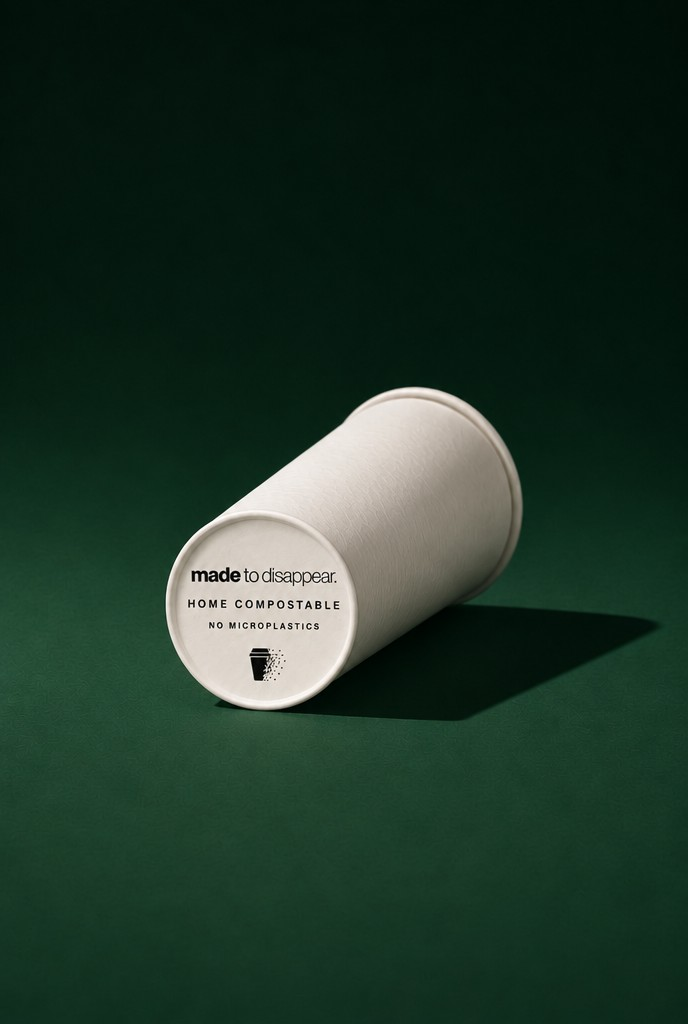
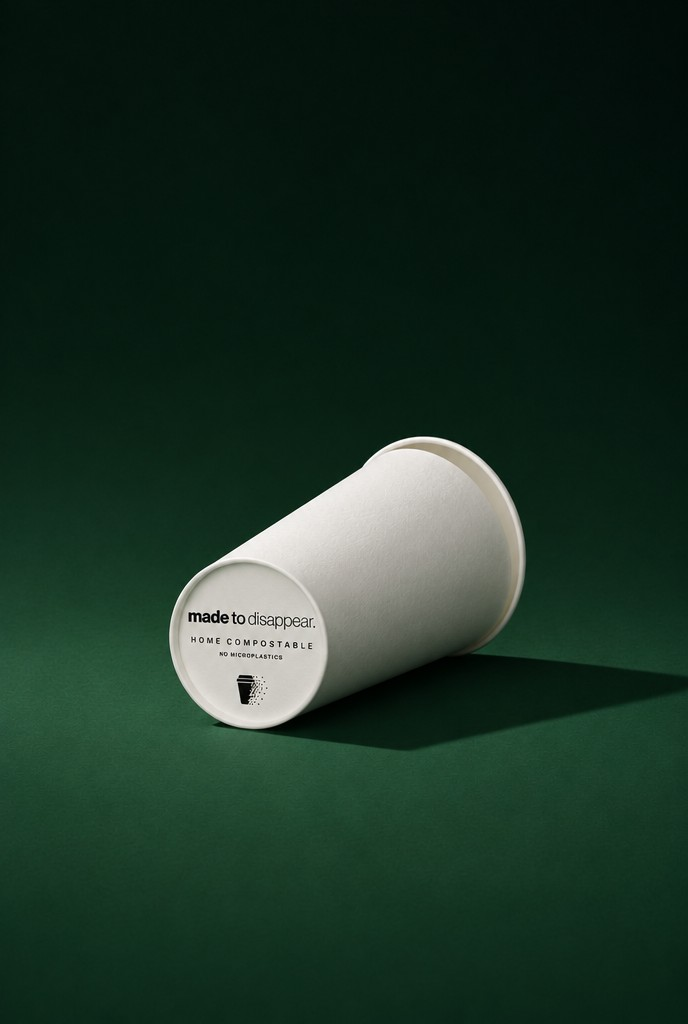
Lying-down cups reshot side-on so the taper reads
The base-forward and three-quarter views still read as a tube, so the three
cup alts are now tipped over in a side view with the wider rim behind and the
marked base turned to camera (masters 129–131). ASSET_VERSION 18.

Changed region(s): [[0.2442, 0.375, 1.0, 0.75]]

diff --git a/src/lib/asset-version.ts b/src/lib/asset-version.ts
@@ -3,7 +3,7 @@
  * are replaced: the URLs change, so no browser or CDN keeps serving the old
  * files. next.config.ts allows exactly this query on local images.
  */
-export const ASSET_VERSION = "17";
+export const ASSET_VERSION = "18";
 
 export function v(publicPath: string): string {
   return `${publicPath}?v=${ASSET_VERSION}`;

diff --git a/CLAUDE.md b/CLAUDE.md
@@ -1,6 +1,6 @@
 # Made to Disappear site
 
-- Brand card (branch brand-card, 2026-11-12/13): docs/brand/brand-card-2026-11-12.md records the design card the user supplied in chat (the PDF was not saved) and asked to be applied to the whole site; it supersedes the colour and type guidance in docs/brand-card.md (routes, data model and claims rules there still apply). Palette: bone #EDE8DF page ground, paper #F6F2EB cards/inputs/image wells, ink #111111 text and primary buttons, soil #2A2420 the one dark band per page (the footer), stone #6B675F secondary text, ash #8B877F disabled/coming-soon/borders only, raw bamboo #C4A672 only as a left rule on notes (`.note`). The old token names in globals.css (`--color-forest`, `--color-cream`, `--color-mint`, `--color-sage`, `--color-clay`…) are kept so every utility still works, each remapped to a card colour; a "Brand card layer" at the end of globals.css overrides components: square corners everywhere except `.btn`/`.chip` (a `[class*="rounded-["]` override), no shadows/gradients/glass/mesh/grain, `.card` paper with a hairline and colour-only hover, outlined chips in lowercase, ink primary button + outlined others (one primary per screen; the header button is outlined), `.btn` and nav lowercase via text-transform, headings always ink, `.price-table`/`.spec-table` hairline rows with an ink rule under the header row, `.max-w-7xl` capped at 1120 px with 28 px gutters, Reveal fades only (200 ms), Marquee static. Type: Helvetica Neue / Arial system stack via `--font-display/--font-serif/--font-sans` (no Google fonts; JetBrains Mono stays for SKUs); .t-hero 72/1/700/-0.04em, .t-section 40, .t-page/.t-heading 26, .t-card 19, .t-lead 20/500, .t-label 11.5 caps stone. Headings are lowercase with a period in the copy itself (acronyms stay); PageHeader titles and most h2s were lowercased on 2026-11-13. Home page: hero (product on bone, headline "serve it. then let it go.", one primary + a text link, a hairline fact list), then numbered sections 01 the range (hairline product grid), 02 paper outside. PHA inside. (soil photo + hairline spec list), 03 after the coffee. (breakdown strip + three hairline columns), 04 what it costs. (CostCalculator, hairline receipt), 05 the Inner Harbour (desaturated photo + hairline stats), 06 asked often.; the footer is the only soil band and carries "keep it. then let it go." Photography (2026-11-13, GPT Image 2.6 via Higgsfield from the renders and the badge, masters in docs/brand/generated/60–65): public/hero-bone.jpg (16:9), `[sku]-front.jpg` the 4:5 pair with the base mark, `[sku]-3q.jpg` single standing cups cropped from one three-cup frame, lid front/3q; all on bone #EDE8DF with one hard light and a real shadow. ProductImage frames are 4:5 object-cover. public/icon.png and apple-icon.png are the card's favicon: an ink dot on bone, low and right.  Interaction layer (2026-11-13, after the user said the photos were off-centre and the site had no features): the product photography was regenerated on 2026-11-13 with the subject dead centre and a short soft shadow (GPT Image 2.6, masters docs/brand/generated/80–87: hero lineup, three front pairs, lid pair, three standing cups; visual mass measured within 5% of centre with the scratchpad measure.py), the 16 oz pair and standing shot were regenerated at real proportions (13.5 cm tall on a 90 mm rim, masters 92–93) after the first read as a giant tumbler (user, 2026-11-13); the lid photos are lid-only (a single lid front, a stack of three for the hover shot, two lids for card-lids.jpg; masters 89–91) because a cup wearing the lid read as another cup SKU (user, 2026-11-13), then the product tiles and gallery cut tight so the cups fill the 4:5 frame and bleed top and bottom (user, 2026-11-13: "like this… not in the middle", shown on the range tiles only); the hero keeps the full centred lineup with its margins; re-cropping the first set never looked right because the long hard shadows ran to one edge. Every photo URL carries ?v=ASSET_VERSION from src/lib/asset-version.ts (next.config.ts images.localPatterns allows exactly that query): bump the constant whenever a photo file is replaced, or browsers keep the old file for hours. soil-mark.jpg is a Higgsfield outpaint of the original (master 72), and public/breakdown/1–4.jpg are 4:5 cuts of the 4k-upscaled strip (master 73). The header is transparent until the page scrolls (ScrollState sets data-scrolled; the brand layer then paints it bone with a hairline). Home page (rebuilt 2026-11-14 to sit "just like nothing.eco", after the user asked; this supersedes the 2026-11-13 layout below): a full-bleed photograph hero (public/hero-green.jpg, master docs/brand/generated/128, a barista holding a lidded cup on a dark green stone counter with the left two thirds dark; master 123 was the first take, which the user liked but whose hand had two fingers one side and three the other; 127 put the thumb across the front, which the user rejected because a barista behind the counter holds the cup the other way round, so 128 was regenerated with 123 as the composition reference and the grip spelled out: back of the hand to the camera, four fingers across the front of the cup, thumb hidden behind it) with the headline bottom-left in bone, one bone-filled `.btn-bone` button and the from-price; phones stack the 4:5 photo over a dark green panel so the headline never crosses the cup; then "as heard on" as a label on a hairline with the CBC credit; two square photo category cards (shared-trio, shared-lid-on) with title, line and outlined bone `.chip-shot` chips at the top and a bone button bottom-left; a full-width soil band (breakdown/4.jpg under a flat `.photo-shade`) with the lining statement centred; "the range." as four ProductCards; "what happens after." with the scrubber; "we asked 167 people first." with the three percentages in hairline columns; the calculator; the FAQ. `.on-photo` sets headings to bone (the brand layer otherwise forces headings ink). The cup alts were reshot the same day with the current badge after the user pointed out the first green set carried the old arc-text mark, then reshot again at a three-quarter angle (the straight-on base view "looks like a cylinder", user) with the badge printed without its circle: the black circle in docs/brand/badge-cup-base.png was only a placeholder for the cup base, so docs/brand/badge-cup-base-nocircle.png is the reference to use (masters 124–126). The soil-mark and breakdown frames (public/soil-mark.jpg, public/breakdown/1–4.jpg) still show the mark with the circle and have not been reshot. Card rules the user set on 2026-11-14, overriding the brand card for the catalogue cards only: white type on the photo cards, 10 px corners on `.shot-card`/`.featured-tile`, the order button `.btn-order` in raw bamboo with a 3 px solid base shadow (the one "3D" element on the site), catalogue grids three across (closer tiles removed from the pages; the prop remains), related row three across. Earlier home page (2026-11-13, kept for history: the user had asked for "a mix between Bloom Energy and nothing.eco" in the card's colours; the numbered-section layout was rejected because its 160 px number column pushed every section right of centre): two-column hero (`.bleed`; headline column left, the lineup in its own column right as a cut-out: public/hero-lineup.png is an RGBA PNG (master docs/brand/generated/95-hero-lineup-cut.png) made from the centred lineup (master 94) with a difference matte (scratchpad matte.py: local background by normalised convolution, alpha from colour distance, silhouette filled solid, shadows kept semi-transparent, colour un-premultiplied), so the cups and their shadows stand on the page bone with no photo plate; a colour-matched plate was tried first (hero-lineup.jpg) and rejected by the user on 2026-11-13 as "unnatural" because the rectangle still showed; shown whole with object-contain, 8:5 frame above the text on phones; public/hero-wide.jpg (master 88) is kept but unused), a four-cell trust strip on hairlines (CBC, TÜV Austria, lining, ships from), two square feature cards with the photo as the card and text over the empty bone (card-cups.jpg / card-lids.jpg), a split statement band (the one soil panel `bg-soil-band` left, soil-mark.jpg right), "after the coffee." with the scrubber, a Bloom-style stat band (sentence + three counting percentages in hairline cells), "the range." tiles with a from-price and an outlined order button, the calculator, a full-width hairline FAQ; every section heading is a SectionHead (heading left, one outlined action right) and spans the full 1120 px. The footer ends with the wordmark set across the full width at 18% (`.footer-mark`). Copy voice (user, 2026-11-13: the copy "sounds AI"): write like the founders talk to a café owner. Plain sentences, one thought each, concrete nouns (paper, lining, bacteria, compost pile, case of 1,000). No fragment triads ("serve it. compost it. done."), no aphorisms ("the whole promise", "nothing left behind"), no clever taglines; the footer line is "hot cups and lids that compost at home. Victoria, BC." and the hero reads "a hot cup you can compost at home." Lowercase headings with a period stay; the words inside them should still be ordinary. Final pass (2026-11-13, after a whole-site design review): the home press band is the CBC credit alone ("as heard on · CBC Radio One · All Points West with Jason D'Souza"; the user asked for just that, no other trust facts); every product-level certification sentence was rewritten to the material claim (learn.ts, hero, about, whats-in-your-cup); `.spec-table` width rule now targets `tbody th:first-child` only and the compare table is `table-fixed`; `.spec-wrap` drops the doubled last line in bordered spec tables; NotifyForm compact stacks input over button; QuickOrder placeholder uses live SKUs; category pages get 3-across for cups plus the sample/quick-order notes; the top announcement band is hidden on phones and the consumer/business toggle sits beside the phone search field; the account sign-in uses PageHeader; the compost certificate band and custom-printing step 04 became notes; legal headings are lowercase with a period; the hero plate (hero-wide.jpg) is colour-matched to bone #EDE8DF so it meets the page without a step. The user still owes: `npm run db:seed` (prices), the "not plastic" wording decision (learn says PHA counts as a plastic under the EU definition; the hero and certifications page say no plastic lining), and the certificate numbers. Catalogue (rebuilt 2026-11-13 after the user asked for product cards and product pages like nothing.eco, whose palette is almost ours: page #EDE6DD, cards #F6F3EE, ink #1D1D1B; the difference is the photography and the card structure): the photograph is the card. ProductCard is a 2:3 photo tile with the category label, SKU, lowercase name and tagline in bone over the dark back wall, and CardPrice (business: from ¢ a cup · case; consumer: pack price), the stock line and one outlined bone "order" button (`.btn-shot`) over the floor; HoverSwap fades to `[sku]-alt.jpg` (cups on their side with the base mark, the lid on a cup). The card is a CSS container: under 320 px (phones two across, the home row of four) it drops tagline, SKU and stock line and puts the price beside a small button so nothing crosses the cup. CatalogGrid: toolbar (pills, count, search), a hairline row of five facts, then a 3-across grid (2 on phones) with an optional `featured` lifestyle tile spanning two columns (products: the café-counter shot; lids: the barista hand; cups: none). Product page: ProductGallery is one 4:5 frame with cross-fading slides, round outlined arrows, dots and touch swipe (no thumbnails, no `motion`); the buy column is label · SKU, t-section name with a period, a plain lead (tagline + material + case count), CertChip, a fact row, size chips, Price, then AddToCart in its full form (unit chips, a −/+ stepper bar reading quantity · units · price each · line total, one primary add to cart), the volume/quote line, "pair it with" PairedAdd rows (photo, name, from-price, square + button), and a "details and specs." accordion holding SpecTable; under the gallery a custom-printing card; below, the FAQ and a two-up band (counter photo + paper panel linking /compost). Photography: public/products/README.md lists the set (fronts, alts, shared-trio/lid-on/case/life-hand/life-counter). Reshot on 2026-11-14 on a deep bottle-green sweep after the user asked for "a luxurious dark green" instead of brown (masters docs/brand/generated/108–119, GPT Image 2.6 at quality medium, 0.5 credits a 1k frame and 1.0 at 2k; the kraft frames 96–107 were fed back as composition references so every green frame matches its predecessor); a local hue-shift of the kraft frames was tried first and rejected as a tinted photo. Base-mark frames read only "made to disappear. / home compostable / no microplastics", never a certifier name. Layout pass the same day to sit "almost exactly" on nothing.eco: catalogue and category pages open with breadcrumb + title + lead (no PageHeader band), pills and search on one row, a single-line scrolling `.facts-strip` with circled ticks, then a 4-across grid (2 on phones) where the featured lifestyle tile takes two cells at the top and `closers` (more lifestyle tiles, span 1 or 2) finish the last row so every row is full (products: counter + 4 cards + barista; cups: 3 cards + trio; lids: barista + lid + lid-on); the card is `aspect-[2/3]` with the photo in a `.shot-well` 12% taller than the card so the cup sits clear of the price, no stock line on the tile, compact layout under 240 px (`@[15rem]`); the product page is `1.5fr 1fr` with a square gallery (filled arrows, bone dots inside the frame), round `.size-pill` sizes, no separate Price block (the stepper carries the price), a "goes with it." ProductCard row at the end, and /products ends with a six-question "asked often." FAQ from homeFaq. The home feature cards now use shared-trio.jpg and the lid-on-cup frame, and the home range row uses ProductCard. The `motion` library is no longer imported by CatalogGrid or ProductGallery. SectionRail/CountUp/BreakdownScrubber/HoverSwap remain as components (SectionRail is no longer rendered). Motion layer (end of globals.css, all inside prefers-reduced-motion: no-preference): `.hero-in` children rise in with a stagger and `.hero-photo` settles from a 1.04 scale on load (scale only, never opacity: a fade on the hero image delays LCP; CSS only, no JS on the critical path); Reveal/RevealGroup now fade and rise 14 px over 700 ms with the stagger step; `.drift` gives the soil photo an 18 s alternate zoom; `.zoom-on-hover` and HoverSwap scale the photo 1.035 on hover; buttons lift 1 px on hover and press to 0.98; details answers rise in; smooth scrolling. HoverSwap fades product tiles and cards to the standing `-3q` shot on hover (Product.hover from withAssets), BreakdownScrubber is the four-frame well you drag across or pick a stage from (it steps through once on arrival, then only moves when moved), CountUp counts the survey percentages in. All fades, nothing slides. Harnesses: scratchpad hovershot.mjs (hover + screenshot) and scrollshot.mjs. Phone pass 2026-11-13: every page checked at 390 px with no overflow; the trust strip is 2×2 on phones, the hero photo stacks above the text with the lineup at 58%, interactive chips and small buttons get 36–44 px hit areas under (hover: none); Lighthouse mobile on the local build scored 90 with CLS 0. The older passes live on branches calmer-register and draft-blend; the user's standing rules from them still hold (no "per SKU", flat 16/17/18¢ pricing, Learn library, cost calculator as a sentence + receipt).
+- Brand card (branch brand-card, 2026-11-12/13): docs/brand/brand-card-2026-11-12.md records the design card the user supplied in chat (the PDF was not saved) and asked to be applied to the whole site; it supersedes the colour and type guidance in docs/brand-card.md (routes, data model and claims rules there still apply). Palette: bone #EDE8DF page ground, paper #F6F2EB cards/inputs/image wells, ink #111111 text and primary buttons, soil #2A2420 the one dark band per page (the footer), stone #6B675F secondary text, ash #8B877F disabled/coming-soon/borders only, raw bamboo #C4A672 only as a left rule on notes (`.note`). The old token names in globals.css (`--color-forest`, `--color-cream`, `--color-mint`, `--color-sage`, `--color-clay`…) are kept so every utility still works, each remapped to a card colour; a "Brand card layer" at the end of globals.css overrides components: square corners everywhere except `.btn`/`.chip` (a `[class*="rounded-["]` override), no shadows/gradients/glass/mesh/grain, `.card` paper with a hairline and colour-only hover, outlined chips in lowercase, ink primary button + outlined others (one primary per screen; the header button is outlined), `.btn` and nav lowercase via text-transform, headings always ink, `.price-table`/`.spec-table` hairline rows with an ink rule under the header row, `.max-w-7xl` capped at 1120 px with 28 px gutters, Reveal fades only (200 ms), Marquee static. Type: Helvetica Neue / Arial system stack via `--font-display/--font-serif/--font-sans` (no Google fonts; JetBrains Mono stays for SKUs); .t-hero 72/1/700/-0.04em, .t-section 40, .t-page/.t-heading 26, .t-card 19, .t-lead 20/500, .t-label 11.5 caps stone. Headings are lowercase with a period in the copy itself (acronyms stay); PageHeader titles and most h2s were lowercased on 2026-11-13. Home page: hero (product on bone, headline "serve it. then let it go.", one primary + a text link, a hairline fact list), then numbered sections 01 the range (hairline product grid), 02 paper outside. PHA inside. (soil photo + hairline spec list), 03 after the coffee. (breakdown strip + three hairline columns), 04 what it costs. (CostCalculator, hairline receipt), 05 the Inner Harbour (desaturated photo + hairline stats), 06 asked often.; the footer is the only soil band and carries "keep it. then let it go." Photography (2026-11-13, GPT Image 2.6 via Higgsfield from the renders and the badge, masters in docs/brand/generated/60–65): public/hero-bone.jpg (16:9), `[sku]-front.jpg` the 4:5 pair with the base mark, `[sku]-3q.jpg` single standing cups cropped from one three-cup frame, lid front/3q; all on bone #EDE8DF with one hard light and a real shadow. ProductImage frames are 4:5 object-cover. public/icon.png and apple-icon.png are the card's favicon: an ink dot on bone, low and right.  Interaction layer (2026-11-13, after the user said the photos were off-centre and the site had no features): the product photography was regenerated on 2026-11-13 with the subject dead centre and a short soft shadow (GPT Image 2.6, masters docs/brand/generated/80–87: hero lineup, three front pairs, lid pair, three standing cups; visual mass measured within 5% of centre with the scratchpad measure.py), the 16 oz pair and standing shot were regenerated at real proportions (13.5 cm tall on a 90 mm rim, masters 92–93) after the first read as a giant tumbler (user, 2026-11-13); the lid photos are lid-only (a single lid front, a stack of three for the hover shot, two lids for card-lids.jpg; masters 89–91) because a cup wearing the lid read as another cup SKU (user, 2026-11-13), then the product tiles and gallery cut tight so the cups fill the 4:5 frame and bleed top and bottom (user, 2026-11-13: "like this… not in the middle", shown on the range tiles only); the hero keeps the full centred lineup with its margins; re-cropping the first set never looked right because the long hard shadows ran to one edge. Every photo URL carries ?v=ASSET_VERSION from src/lib/asset-version.ts (next.config.ts images.localPatterns allows exactly that query): bump the constant whenever a photo file is replaced, or browsers keep the old file for hours. soil-mark.jpg is a Higgsfield outpaint of the original (master 72), and public/breakdown/1–4.jpg are 4:5 cuts of the 4k-upscaled strip (master 73). The header is transparent until the page scrolls (ScrollState sets data-scrolled; the brand layer then paints it bone with a hairline). Home page (rebuilt 2026-11-14 to sit "just like nothing.eco", after the user asked; this supersedes the 2026-11-13 layout below): a full-bleed photograph hero (public/hero-green.jpg, master docs/brand/generated/128, a barista holding a lidded cup on a dark green stone counter with the left two thirds dark; master 123 was the first take, which the user liked but whose hand had two fingers one side and three the other; 127 put the thumb across the front, which the user rejected because a barista behind the counter holds the cup the other way round, so 128 was regenerated with 123 as the composition reference and the grip spelled out: back of the hand to the camera, four fingers across the front of the cup, thumb hidden behind it) with the headline bottom-left in bone, one bone-filled `.btn-bone` button and the from-price; phones stack the 4:5 photo over a dark green panel so the headline never crosses the cup; then "as heard on" as a label on a hairline with the CBC credit; two square photo category cards (shared-trio, shared-lid-on) with title, line and outlined bone `.chip-shot` chips at the top and a bone button bottom-left; a full-width soil band (breakdown/4.jpg under a flat `.photo-shade`) with the lining statement centred; "the range." as four ProductCards; "what happens after." with the scrubber; "we asked 167 people first." with the three percentages in hairline columns; the calculator; the FAQ. `.on-photo` sets headings to bone (the brand layer otherwise forces headings ink). The cup alts were reshot the same day with the current badge after the user pointed out the first green set carried the old arc-text mark, then reshot again with the badge printed without its circle, first at a three-quarter angle (masters 124–126) and, when the user still saw "a cylinder", tipped over in a side view with the rim behind and visibly wider than the base (masters 129–131, the installed set): the black circle in docs/brand/badge-cup-base.png was only a placeholder for the cup base, so docs/brand/badge-cup-base-nocircle.png is the reference to use. The soil-mark and breakdown frames (public/soil-mark.jpg, public/breakdown/1–4.jpg) still show the mark with the circle and have not been reshot. Card rules the user set on 2026-11-14, overriding the brand card for the catalogue cards only: white type on the photo cards, 10 px corners on `.shot-card`/`.featured-tile`, the order button `.btn-order` in raw bamboo with a 3 px solid base shadow (the one "3D" element on the site), catalogue grids three across (closer tiles removed from the pages; the prop remains), related row three across. Earlier home page (2026-11-13, kept for history: the user had asked for "a mix between Bloom Energy and nothing.eco" in the card's colours; the numbered-section layout was rejected because its 160 px number column pushed every section right of centre): two-column hero (`.bleed`; headline column left, the lineup in its own column right as a cut-out: public/hero-lineup.png is an RGBA PNG (master docs/brand/generated/95-hero-lineup-cut.png) made from the centred lineup (master 94) with a difference matte (scratchpad matte.py: local background by normalised convolution, alpha from colour distance, silhouette filled solid, shadows kept semi-transparent, colour un-premultiplied), so the cups and their shadows stand on the page bone with no photo plate; a colour-matched plate was tried first (hero-lineup.jpg) and rejected by the user on 2026-11-13 as "unnatural" because the rectangle still showed; shown whole with object-contain, 8:5 frame above the text on phones; public/hero-wide.jpg (master 88) is kept but unused), a four-cell trust strip on hairlines (CBC, TÜV Austria, lining, ships from), two square feature cards with the photo as the card and text over the empty bone (card-cups.jpg / card-lids.jpg), a split statement band (the one soil panel `bg-soil-band` left, soil-mark.jpg right), "after the coffee." with the scrubber, a Bloom-style stat band (sentence + three counting percentages in hairline cells), "the range." tiles with a from-price and an outlined order button, the calculator, a full-width hairline FAQ; every section heading is a SectionHead (heading left, one outlined action right) and spans the full 1120 px. The footer ends with the wordmark set across the full width at 18% (`.footer-mark`). Copy voice (user, 2026-11-13: the copy "sounds AI"): write like the founders talk to a café owner. Plain sentences, one thought each, concrete nouns (paper, lining, bacteria, compost pile, case of 1,000). No fragment triads ("serve it. compost it. done."), no aphorisms ("the whole promise", "nothing left behind"), no clever taglines; the footer line is "hot cups and lids that compost at home. Victoria, BC." and the hero reads "a hot cup you can compost at home." Lowercase headings with a period stay; the words inside them should still be ordinary. Final pass (2026-11-13, after a whole-site design review): the home press band is the CBC credit alone ("as heard on · CBC Radio One · All Points West with Jason D'Souza"; the user asked for just that, no other trust facts); every product-level certification sentence was rewritten to the material claim (learn.ts, hero, about, whats-in-your-cup); `.spec-table` width rule now targets `tbody th:first-child` only and the compare table is `table-fixed`; `.spec-wrap` drops the doubled last line in bordered spec tables; NotifyForm compact stacks input over button; QuickOrder placeholder uses live SKUs; category pages get 3-across for cups plus the sample/quick-order notes; the top announcement band is hidden on phones and the consumer/business toggle sits beside the phone search field; the account sign-in uses PageHeader; the compost certificate band and custom-printing step 04 became notes; legal headings are lowercase with a period; the hero plate (hero-wide.jpg) is colour-matched to bone #EDE8DF so it meets the page without a step. The user still owes: `npm run db:seed` (prices), the "not plastic" wording decision (learn says PHA counts as a plastic under the EU definition; the hero and certifications page say no plastic lining), and the certificate numbers. Catalogue (rebuilt 2026-11-13 after the user asked for product cards and product pages like nothing.eco, whose palette is almost ours: page #EDE6DD, cards #F6F3EE, ink #1D1D1B; the difference is the photography and the card structure): the photograph is the card. ProductCard is a 2:3 photo tile with the category label, SKU, lowercase name and tagline in bone over the dark back wall, and CardPrice (business: from ¢ a cup · case; consumer: pack price), the stock line and one outlined bone "order" button (`.btn-shot`) over the floor; HoverSwap fades to `[sku]-alt.jpg` (cups on their side with the base mark, the lid on a cup). The card is a CSS container: under 320 px (phones two across, the home row of four) it drops tagline, SKU and stock line and puts the price beside a small button so nothing crosses the cup. CatalogGrid: toolbar (pills, count, search), a hairline row of five facts, then a 3-across grid (2 on phones) with an optional `featured` lifestyle tile spanning two columns (products: the café-counter shot; lids: the barista hand; cups: none). Product page: ProductGallery is one 4:5 frame with cross-fading slides, round outlined arrows, dots and touch swipe (no thumbnails, no `motion`); the buy column is label · SKU, t-section name with a period, a plain lead (tagline + material + case count), CertChip, a fact row, size chips, Price, then AddToCart in its full form (unit chips, a −/+ stepper bar reading quantity · units · price each · line total, one primary add to cart), the volume/quote line, "pair it with" PairedAdd rows (photo, name, from-price, square + button), and a "details and specs." accordion holding SpecTable; under the gallery a custom-printing card; below, the FAQ and a two-up band (counter photo + paper panel linking /compost). Photography: public/products/README.md lists the set (fronts, alts, shared-trio/lid-on/case/life-hand/life-counter). Reshot on 2026-11-14 on a deep bottle-green sweep after the user asked for "a luxurious dark green" instead of brown (masters docs/brand/generated/108–119, GPT Image 2.6 at quality medium, 0.5 credits a 1k frame and 1.0 at 2k; the kraft frames 96–107 were fed back as composition references so every green frame matches its predecessor); a local hue-shift of the kraft frames was tried first and rejected as a tinted photo. Base-mark frames read only "made to disappear. / home compostable / no microplastics", never a certifier name. Layout pass the same day to sit "almost exactly" on nothing.eco: catalogue and category pages open with breadcrumb + title + lead (no PageHeader band), pills and search on one row, a single-line scrolling `.facts-strip` with circled ticks, then a 4-across grid (2 on phones) where the featured lifestyle tile takes two cells at the top and `closers` (more lifestyle tiles, span 1 or 2) finish the last row so every row is full (products: counter + 4 cards + barista; cups: 3 cards + trio; lids: barista + lid + lid-on); the card is `aspect-[2/3]` with the photo in a `.shot-well` 12% taller than the card so the cup sits clear of the price, no stock line on the tile, compact layout under 240 px (`@[15rem]`); the product page is `1.5fr 1fr` with a square gallery (filled arrows, bone dots inside the frame), round `.size-pill` sizes, no separate Price block (the stepper carries the price), a "goes with it." ProductCard row at the end, and /products ends with a six-question "asked often." FAQ from homeFaq. The home feature cards now use shared-trio.jpg and the lid-on-cup frame, and the home range row uses ProductCard. The `motion` library is no longer imported by CatalogGrid or ProductGallery. SectionRail/CountUp/BreakdownScrubber/HoverSwap remain as components (SectionRail is no longer rendered). Motion layer (end of globals.css, all inside prefers-reduced-motion: no-preference): `.hero-in` children rise in with a stagger and `.hero-photo` settles from a 1.04 scale on load (scale only, never opacity: a fade on the hero image delays LCP; CSS only, no JS on the critical path); Reveal/RevealGroup now fade and rise 14 px over 700 ms with the stagger step; `.drift` gives the soil photo an 18 s alternate zoom; `.zoom-on-hover` and HoverSwap scale the photo 1.035 on hover; buttons lift 1 px on hover and press to 0.98; details answers rise in; smooth scrolling. HoverSwap fades product tiles and cards to the standing `-3q` shot on hover (Product.hover from withAssets), BreakdownScrubber is the four-frame well you drag across or pick a stage from (it steps through once on arrival, then only moves when moved), CountUp counts the survey percentages in. All fades, nothing slides. Harnesses: scratchpad hovershot.mjs (hover + screenshot) and scrollshot.mjs. Phone pass 2026-11-13: every page checked at 390 px with no overflow; the trust strip is 2×2 on phones, the hero photo stacks above the text with the lineup at 58%, interactive chips and small buttons get 36–44 px hit areas under (hover: none); Lighthouse mobile on the local build scored 90 with CLS 0. The older passes live on branches calmer-register and draft-blend; the user's standing rules from them still hold (no "per SKU", flat 16/17/18¢ pricing, Learn library, cost calculator as a sentence + receipt).
 - Do not mention shipping speed (no same-day, cutoffs or dispatch times) and never present the round wordmark badge as a certification mark: it is our logo, not TÜV Austria's.
 - The site never shows its own to-do list: no "pending", "TODO" or placeholder values in copy, chips, tables or the PDF. Missing data (certificate numbers, phone) is omitted, not labelled. Ask the user for it in chat instead.
 - Never use the words biodegradable, marine, ocean, landfill, municipal, green bin, eco or planet-friendly in site copy. `npm run lint:copy` enforces this and runs before every build.

diff --git a/public/products/README.md b/public/products/README.md
@@ -2,8 +2,10 @@ Catalogue photography (reshot 2026-11-14 on a dark green sweep, GPT Image 2.6
 via Higgsfield at quality medium, masters in docs/brand/generated/108–119;
 the kraft set of 2026-11-13 is masters 96–107; the three cup alts were reshot
 with the current badge on 2026-11-14 (masters 120–122) and again the same day
-at a three-quarter angle so the taper reads and with the badge printed without
-its placeholder circle (masters 124–126, docs/brand/badge-cup-base-nocircle.png). One set, one style: a
+with the badge printed without its placeholder circle, first at a three-quarter
+angle (masters 124–126) and finally tipped over in a side view, rim behind and
+wider than the base, so the taper is unmistakable (masters 129–131, reference
+docs/brand/badge-cup-base-nocircle.png). One set, one style: a
 seamless deep bottle-green paper sweep (floor about #1D372A, the back wall
 falling into near-black green at the top), one hard key light from the upper
 left, a long shadow to the lower right, the product small and centred. The
@@ -20,7 +22,7 @@ object-cover.
 Per SKU:
 
   [SKU]-front.jpg   the product alone, standing (cards, gallery 1); 1360 × 2048
-  [SKU]-alt.jpg     cups: on their side at a three-quarter angle, the base mark towards camera; lid: on a 12 oz cup (card hover, gallery 2); 688 × 1024
+  [SKU]-alt.jpg     cups: tipped over in a side view, the wider rim behind, the base mark turned to camera; lid: on a 12 oz cup (card hover, gallery 2); 688 × 1024
 
 Shared (src/lib/catalog/assets.ts `sharedPhoto(name)`):
 
